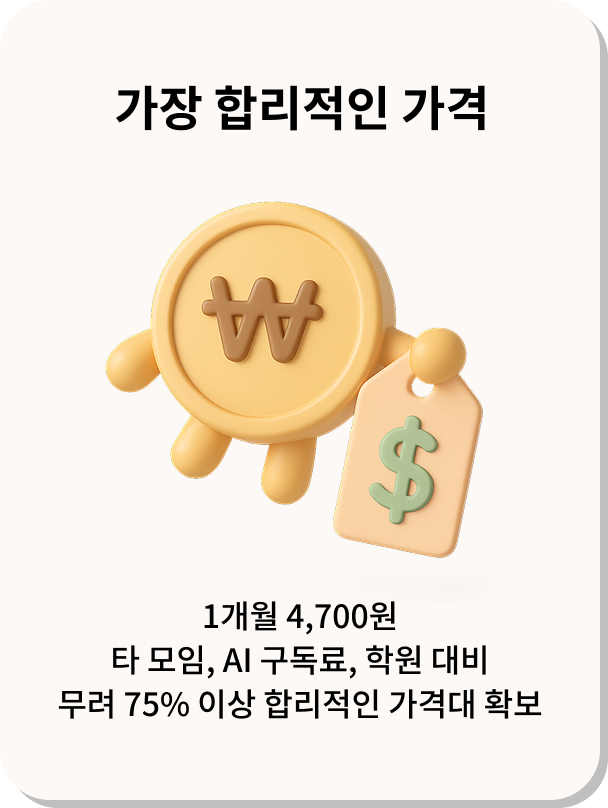
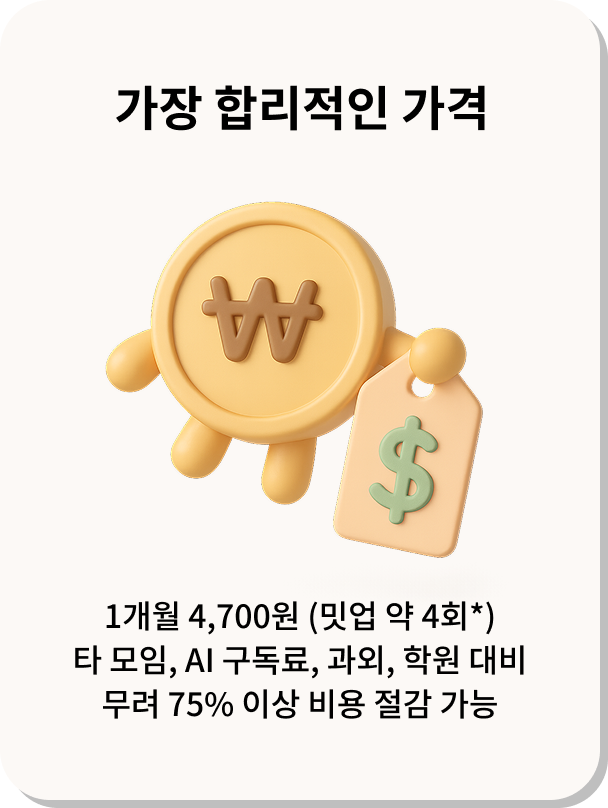
home update

Changed region(s): [[0.0938, 0.7426, 0.9062, 0.8973]]

diff --git a/src/shared/routes/home.tsx b/src/shared/routes/home.tsx
@@ -187,13 +187,12 @@ const FeaturesSection = styled.section`
 // Feature slider layout with common utilities
 const FeatureSlider = styled.div`
   ${flexCenter}
-  gap: 1.5rem;
-  padding: 2rem 0;
+  gap: 3rem;
   margin: 0 auto;
   max-width: 960px;
   overflow: visible;
   will-change: contents;
-  height: 450px; /* Add fixed height */
+  height: 400px; /* Add fixed height */
 
   ${media.mobile`
     flex-direction: column;
@@ -209,7 +208,7 @@ const FeatureCard = styled.img<{ isActive?: boolean }>`
   height: auto;
   cursor: pointer;
   transition: all 0.3s ease-out;
-  filter: drop-shadow(0 10px 15px rgba(0, 0, 0, 0.15));
+  filter: drop-shadow(0 10px 5px rgba(0, 0, 0, 0.15));
   opacity: ${(props) => (props.isActive ? 1 : 0.85)};
   transform: ${(props) => (props.isActive ? "scale(1.05)" : "scale(1)")};
   will-change: transform, opacity, filter;
@@ -569,6 +568,54 @@ const HeroMeetupCardContainer = styled.div`
   }
 `;
 
+// New styled component for the MeetupButton
+const MeetupButton = styled.button`
+  background-color: ${colors.primary};
+  color: white;
+  border: none;
+  border-radius: 30px;
+  padding: 12px 30px;
+  font-size: 1rem;
+  font-weight: 600;
+  cursor: pointer;
+  transition: all 0.3s ease;
+  margin-top: 2rem;
+  box-shadow: 0 4px 6px rgba(0, 0, 0, 0.1);
+  
+  &:hover {
+    background-color: ${colors.primaryLight};
+    transform: translateY(-2px);
+    box-shadow: 0 6px 12px rgba(0, 0, 0, 0.15);
+  }
+  
+  &:active {
+    transform: translateY(0);
+  }
+  
+  @media (max-width: 768px) {
+    padding: 10px 24px;
+    font-size: 0.9rem;
+  }
+`;
+
+// New styled component for the caveat text
+const CaveatText = styled.p`
+  font-size: 0.85rem;
+  color: ${colors.text.light};
+  text-align: center;
+  margin: 1.5rem auto 0 auto;
+  max-width: 600px;
+  line-height: 1.4;
+  font-family: "Noto Sans KR", sans-serif;
+
+  @media (max-width: 768px) {
+    font-size: 0.8rem;
+    margin: 1rem auto 0 auto;
+    padding: 0 20px;
+    line-height: 1.3;
+  }
+`;
+
 export default function Home() {
   const [openFAQ, setOpenFAQ] = useState<number | null>(null);
   const [activeFeature, setActiveFeature] = useState(0);
@@ -877,10 +924,10 @@ export default function Home() {
       {/* Features Section */}
       <FeaturesSection>
         <SectionTitle>
-          매주 일요일 오후 3시 30분,
+          매주 일요일 15시 30분,
           <br />
           <span style={{ fontWeight: 600 }}>
-            통역사 출신이 직접 리딩하는 영어 모임
+            통역사 출신이 리딩하는 영어 모임
           </span>
         </SectionTitle>
         <FeatureSlider className="feature-slider">
@@ -895,6 +942,16 @@ export default function Home() {
             />
           ))}
         </FeatureSlider>
+        
+        {/* Add caveat text */}
+        <CaveatText>
+          *1주에 1회 진행하는 밋업에 모두 참여 시 4회입니다. 운영진 귀책 사유로 밋업을 1주 진행하지 못할 경우 구독 기간을 2주 연장해드립니다. 멤버 분 귀책 사유로 밋업을 불참하실 경우 연장이 되지는 않습니다.
+        </CaveatText>
+        
+        {/* Add this button below the feature slider */}
+        <MeetupButton onClick={() => navigate('/meetup')}>
+          밋업 일정 확인하기
+        </MeetupButton>
       </FeaturesSection>
 
       {/* FAQ Section */}

diff --git a/src/shared/components/gnb.tsx b/src/shared/components/gnb.tsx
@@ -508,7 +508,7 @@ export default function GNB({
               )}
             </ProfileWrapper>
           ) : (
-            <AuthButton to="/auth">시작하기</AuthButton>
+            <AuthButton to="/auth">로그인 · 가입</AuthButton>
           )}
 
           {/* MobileMenuContainer was here previously */}
